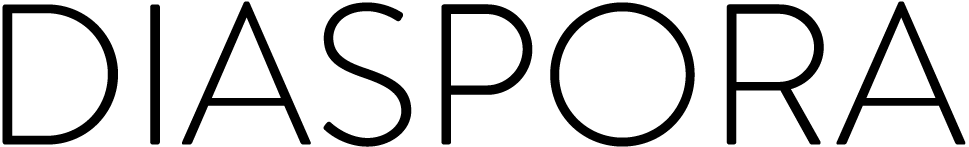
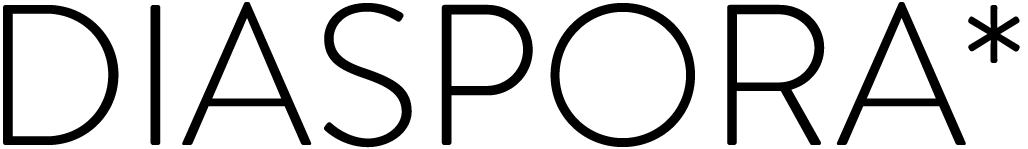
added the asterisk back, for some fun times.

Changed region(s): [[0.0, 0.0, 1.0, 1.0]]

diff --git a/_site/2010/04/30/a-response-to-mr-villa.html b/_site/2010/04/30/a-response-to-mr-villa.html
@@ -9,11 +9,11 @@
 		<link rel="stylesheet" href="/css/core.css" type="text/css" media="screen, projection" />
 		<link href="/atom.xml" rel="alternate" type="application/rss+xml" title="diaspora feed" />
 		<meta name="google-site-verification" content="DGuBficaL_YHPIz5-RX8sSnOLA7fzNDLFyqpY7Q2gIk" />
-		<META HTTP-EQUIV="EXPIRES" CONTENT="Mon May 31 19:33:29 -0400 2010">
+		<META HTTP-EQUIV="EXPIRES" CONTENT="Mon May 31 21:02:06 -0400 2010">
 	</head>
 	<body>
 		<div id="header" class="main_nav">
-			<h1 class="title"><a href ="/">DIASPORA</a></h1>
+			<h1 class="title"><a href ="/">DIASPORA*</a></h1>
 		</div>
 		<div id="floating_nav">
 			<!-- the span is a mobile hack for some devices' lack of ul
@@ -107,7 +107,7 @@ and we are huge fans of the <a href="http://lorea.cc">lorea.cc</a> website&#8230
 
 
 			<div id="footer_left">
-				<span xmlns:dc="http://purl.org/dc/elements/1.1/" href="http://purl.org/dc/dcmitype/InteractiveResource" property="dc:title" rel="dc:type"><span class="brand">DIASPORA</span>Daniel Grippi | Maxwell Salzberg | Raphael Sofaer | Ilya Zhitromirskiy</span><br/><br/><a rel="license" href="http://creativecommons.org/licenses/by-sa/3.0/us/"><img alt="Creative Commons License" style="border-width:0" src="http://i.creativecommons.org/l/by-sa/3.0/us/80x15.png" /></a>
+				<span xmlns:dc="http://purl.org/dc/elements/1.1/" href="http://purl.org/dc/dcmitype/InteractiveResource" property="dc:title" rel="dc:type"><span class="brand">DIASPORA*</span>Daniel Grippi | Maxwell Salzberg | Raphael Sofaer | Ilya Zhitromirskiy</span><br/><br/><a rel="license" href="http://creativecommons.org/licenses/by-sa/3.0/us/"><img alt="Creative Commons License" style="border-width:0" src="http://i.creativecommons.org/l/by-sa/3.0/us/80x15.png" /></a>
 			</div>
 			
 			<div id="footer_right">

diff --git a/_site/2010/04/24/10-kickstarter-is-up.html b/_site/2010/04/24/10-kickstarter-is-up.html
@@ -9,11 +9,11 @@
 		<link rel="stylesheet" href="/css/core.css" type="text/css" media="screen, projection" />
 		<link href="/atom.xml" rel="alternate" type="application/rss+xml" title="diaspora feed" />
 		<meta name="google-site-verification" content="DGuBficaL_YHPIz5-RX8sSnOLA7fzNDLFyqpY7Q2gIk" />
-		<META HTTP-EQUIV="EXPIRES" CONTENT="Mon May 31 19:33:28 -0400 2010">
+		<META HTTP-EQUIV="EXPIRES" CONTENT="Mon May 31 21:02:06 -0400 2010">
 	</head>
 	<body>
 		<div id="header" class="main_nav">
-			<h1 class="title"><a href ="/">DIASPORA</a></h1>
+			<h1 class="title"><a href ="/">DIASPORA*</a></h1>
 		</div>
 		<div id="floating_nav">
 			<!-- the span is a mobile hack for some devices' lack of ul
@@ -63,7 +63,7 @@ p(meta). 24 <span class="caps">APRIL</span> 2010 by maxwell</h2>
 
 
 			<div id="footer_left">
-				<span xmlns:dc="http://purl.org/dc/elements/1.1/" href="http://purl.org/dc/dcmitype/InteractiveResource" property="dc:title" rel="dc:type"><span class="brand">DIASPORA</span>Daniel Grippi | Maxwell Salzberg | Raphael Sofaer | Ilya Zhitromirskiy</span><br/><br/><a rel="license" href="http://creativecommons.org/licenses/by-sa/3.0/us/"><img alt="Creative Commons License" style="border-width:0" src="http://i.creativecommons.org/l/by-sa/3.0/us/80x15.png" /></a>
+				<span xmlns:dc="http://purl.org/dc/elements/1.1/" href="http://purl.org/dc/dcmitype/InteractiveResource" property="dc:title" rel="dc:type"><span class="brand">DIASPORA*</span>Daniel Grippi | Maxwell Salzberg | Raphael Sofaer | Ilya Zhitromirskiy</span><br/><br/><a rel="license" href="http://creativecommons.org/licenses/by-sa/3.0/us/"><img alt="Creative Commons License" style="border-width:0" src="http://i.creativecommons.org/l/by-sa/3.0/us/80x15.png" /></a>
 			</div>
 			
 			<div id="footer_right">

diff --git a/_site/2010/04/17/links-for-the-day.html b/_site/2010/04/17/links-for-the-day.html
@@ -9,11 +9,11 @@
 		<link rel="stylesheet" href="/css/core.css" type="text/css" media="screen, projection" />
 		<link href="/atom.xml" rel="alternate" type="application/rss+xml" title="diaspora feed" />
 		<meta name="google-site-verification" content="DGuBficaL_YHPIz5-RX8sSnOLA7fzNDLFyqpY7Q2gIk" />
-		<META HTTP-EQUIV="EXPIRES" CONTENT="Mon May 31 19:33:28 -0400 2010">
+		<META HTTP-EQUIV="EXPIRES" CONTENT="Mon May 31 21:02:06 -0400 2010">
 	</head>
 	<body>
 		<div id="header" class="main_nav">
-			<h1 class="title"><a href ="/">DIASPORA</a></h1>
+			<h1 class="title"><a href ="/">DIASPORA*</a></h1>
 		</div>
 		<div id="floating_nav">
 			<!-- the span is a mobile hack for some devices' lack of ul
@@ -59,7 +59,7 @@
 
 
 			<div id="footer_left">
-				<span xmlns:dc="http://purl.org/dc/elements/1.1/" href="http://purl.org/dc/dcmitype/InteractiveResource" property="dc:title" rel="dc:type"><span class="brand">DIASPORA</span>Daniel Grippi | Maxwell Salzberg | Raphael Sofaer | Ilya Zhitromirskiy</span><br/><br/><a rel="license" href="http://creativecommons.org/licenses/by-sa/3.0/us/"><img alt="Creative Commons License" style="border-width:0" src="http://i.creativecommons.org/l/by-sa/3.0/us/80x15.png" /></a>
+				<span xmlns:dc="http://purl.org/dc/elements/1.1/" href="http://purl.org/dc/dcmitype/InteractiveResource" property="dc:title" rel="dc:type"><span class="brand">DIASPORA*</span>Daniel Grippi | Maxwell Salzberg | Raphael Sofaer | Ilya Zhitromirskiy</span><br/><br/><a rel="license" href="http://creativecommons.org/licenses/by-sa/3.0/us/"><img alt="Creative Commons License" style="border-width:0" src="http://i.creativecommons.org/l/by-sa/3.0/us/80x15.png" /></a>
 			</div>
 			
 			<div id="footer_right">

diff --git a/_site/2010/04/21/a-little-more-about-the-project.html b/_site/2010/04/21/a-little-more-about-the-project.html
@@ -9,11 +9,11 @@
 		<link rel="stylesheet" href="/css/core.css" type="text/css" media="screen, projection" />
 		<link href="/atom.xml" rel="alternate" type="application/rss+xml" title="diaspora feed" />
 		<meta name="google-site-verification" content="DGuBficaL_YHPIz5-RX8sSnOLA7fzNDLFyqpY7Q2gIk" />
-		<META HTTP-EQUIV="EXPIRES" CONTENT="Mon May 31 19:33:28 -0400 2010">
+		<META HTTP-EQUIV="EXPIRES" CONTENT="Mon May 31 21:02:06 -0400 2010">
 	</head>
 	<body>
 		<div id="header" class="main_nav">
-			<h1 class="title"><a href ="/">DIASPORA</a></h1>
+			<h1 class="title"><a href ="/">DIASPORA*</a></h1>
 		</div>
 		<div id="floating_nav">
 			<!-- the span is a mobile hack for some devices' lack of ul
@@ -64,7 +64,7 @@
 
 
 			<div id="footer_left">
-				<span xmlns:dc="http://purl.org/dc/elements/1.1/" href="http://purl.org/dc/dcmitype/InteractiveResource" property="dc:title" rel="dc:type"><span class="brand">DIASPORA</span>Daniel Grippi | Maxwell Salzberg | Raphael Sofaer | Ilya Zhitromirskiy</span><br/><br/><a rel="license" href="http://creativecommons.org/licenses/by-sa/3.0/us/"><img alt="Creative Commons License" style="border-width:0" src="http://i.creativecommons.org/l/by-sa/3.0/us/80x15.png" /></a>
+				<span xmlns:dc="http://purl.org/dc/elements/1.1/" href="http://purl.org/dc/dcmitype/InteractiveResource" property="dc:title" rel="dc:type"><span class="brand">DIASPORA*</span>Daniel Grippi | Maxwell Salzberg | Raphael Sofaer | Ilya Zhitromirskiy</span><br/><br/><a rel="license" href="http://creativecommons.org/licenses/by-sa/3.0/us/"><img alt="Creative Commons License" style="border-width:0" src="http://i.creativecommons.org/l/by-sa/3.0/us/80x15.png" /></a>
 			</div>
 			
 			<div id="footer_right">

diff --git a/_site/2010/04/24/awesome-flyers-are-here.html b/_site/2010/04/24/awesome-flyers-are-here.html
@@ -9,11 +9,11 @@
 		<link rel="stylesheet" href="/css/core.css" type="text/css" media="screen, projection" />
 		<link href="/atom.xml" rel="alternate" type="application/rss+xml" title="diaspora feed" />
 		<meta name="google-site-verification" content="DGuBficaL_YHPIz5-RX8sSnOLA7fzNDLFyqpY7Q2gIk" />
-		<META HTTP-EQUIV="EXPIRES" CONTENT="Mon May 31 19:33:28 -0400 2010">
+		<META HTTP-EQUIV="EXPIRES" CONTENT="Mon May 31 21:02:06 -0400 2010">
 	</head>
 	<body>
 		<div id="header" class="main_nav">
-			<h1 class="title"><a href ="/">DIASPORA</a></h1>
+			<h1 class="title"><a href ="/">DIASPORA*</a></h1>
 		</div>
 		<div id="floating_nav">
 			<!-- the span is a mobile hack for some devices' lack of ul
@@ -62,7 +62,7 @@
 
 
 			<div id="footer_left">
-				<span xmlns:dc="http://purl.org/dc/elements/1.1/" href="http://purl.org/dc/dcmitype/InteractiveResource" property="dc:title" rel="dc:type"><span class="brand">DIASPORA</span>Daniel Grippi | Maxwell Salzberg | Raphael Sofaer | Ilya Zhitromirskiy</span><br/><br/><a rel="license" href="http://creativecommons.org/licenses/by-sa/3.0/us/"><img alt="Creative Commons License" style="border-width:0" src="http://i.creativecommons.org/l/by-sa/3.0/us/80x15.png" /></a>
+				<span xmlns:dc="http://purl.org/dc/elements/1.1/" href="http://purl.org/dc/dcmitype/InteractiveResource" property="dc:title" rel="dc:type"><span class="brand">DIASPORA*</span>Daniel Grippi | Maxwell Salzberg | Raphael Sofaer | Ilya Zhitromirskiy</span><br/><br/><a rel="license" href="http://creativecommons.org/licenses/by-sa/3.0/us/"><img alt="Creative Commons License" style="border-width:0" src="http://i.creativecommons.org/l/by-sa/3.0/us/80x15.png" /></a>
 			</div>
 			
 			<div id="footer_right">

diff --git a/_site/2010/04/27/kickstarter-pitch.html b/_site/2010/04/27/kickstarter-pitch.html
@@ -9,11 +9,11 @@
 		<link rel="stylesheet" href="/css/core.css" type="text/css" media="screen, projection" />
 		<link href="/atom.xml" rel="alternate" type="application/rss+xml" title="diaspora feed" />
 		<meta name="google-site-verification" content="DGuBficaL_YHPIz5-RX8sSnOLA7fzNDLFyqpY7Q2gIk" />
-		<META HTTP-EQUIV="EXPIRES" CONTENT="Mon May 31 19:33:28 -0400 2010">
+		<META HTTP-EQUIV="EXPIRES" CONTENT="Mon May 31 21:02:06 -0400 2010">
 	</head>
 	<body>
 		<div id="header" class="main_nav">
-			<h1 class="title"><a href ="/">DIASPORA</a></h1>
+			<h1 class="title"><a href ="/">DIASPORA*</a></h1>
 		</div>
 		<div id="floating_nav">
 			<!-- the span is a mobile hack for some devices' lack of ul
@@ -82,7 +82,7 @@
 
 
 			<div id="footer_left">
-				<span xmlns:dc="http://purl.org/dc/elements/1.1/" href="http://purl.org/dc/dcmitype/InteractiveResource" property="dc:title" rel="dc:type"><span class="brand">DIASPORA</span>Daniel Grippi | Maxwell Salzberg | Raphael Sofaer | Ilya Zhitromirskiy</span><br/><br/><a rel="license" href="http://creativecommons.org/licenses/by-sa/3.0/us/"><img alt="Creative Commons License" style="border-width:0" src="http://i.creativecommons.org/l/by-sa/3.0/us/80x15.png" /></a>
+				<span xmlns:dc="http://purl.org/dc/elements/1.1/" href="http://purl.org/dc/dcmitype/InteractiveResource" property="dc:title" rel="dc:type"><span class="brand">DIASPORA*</span>Daniel Grippi | Maxwell Salzberg | Raphael Sofaer | Ilya Zhitromirskiy</span><br/><br/><a rel="license" href="http://creativecommons.org/licenses/by-sa/3.0/us/"><img alt="Creative Commons License" style="border-width:0" src="http://i.creativecommons.org/l/by-sa/3.0/us/80x15.png" /></a>
 			</div>
 			
 			<div id="footer_right">

diff --git a/_site/2010/04/30/we-made-it-half-way.html b/_site/2010/04/30/we-made-it-half-way.html
@@ -9,11 +9,11 @@
 		<link rel="stylesheet" href="/css/core.css" type="text/css" media="screen, projection" />
 		<link href="/atom.xml" rel="alternate" type="application/rss+xml" title="diaspora feed" />
 		<meta name="google-site-verification" content="DGuBficaL_YHPIz5-RX8sSnOLA7fzNDLFyqpY7Q2gIk" />
-		<META HTTP-EQUIV="EXPIRES" CONTENT="Mon May 31 19:33:29 -0400 2010">
+		<META HTTP-EQUIV="EXPIRES" CONTENT="Mon May 31 21:02:06 -0400 2010">
 	</head>
 	<body>
 		<div id="header" class="main_nav">
-			<h1 class="title"><a href ="/">DIASPORA</a></h1>
+			<h1 class="title"><a href ="/">DIASPORA*</a></h1>
 		</div>
 		<div id="floating_nav">
 			<!-- the span is a mobile hack for some devices' lack of ul
@@ -66,7 +66,7 @@
 
 
 			<div id="footer_left">
-				<span xmlns:dc="http://purl.org/dc/elements/1.1/" href="http://purl.org/dc/dcmitype/InteractiveResource" property="dc:title" rel="dc:type"><span class="brand">DIASPORA</span>Daniel Grippi | Maxwell Salzberg | Raphael Sofaer | Ilya Zhitromirskiy</span><br/><br/><a rel="license" href="http://creativecommons.org/licenses/by-sa/3.0/us/"><img alt="Creative Commons License" style="border-width:0" src="http://i.creativecommons.org/l/by-sa/3.0/us/80x15.png" /></a>
+				<span xmlns:dc="http://purl.org/dc/elements/1.1/" href="http://purl.org/dc/dcmitype/InteractiveResource" property="dc:title" rel="dc:type"><span class="brand">DIASPORA*</span>Daniel Grippi | Maxwell Salzberg | Raphael Sofaer | Ilya Zhitromirskiy</span><br/><br/><a rel="license" href="http://creativecommons.org/licenses/by-sa/3.0/us/"><img alt="Creative Commons License" style="border-width:0" src="http://i.creativecommons.org/l/by-sa/3.0/us/80x15.png" /></a>
 			</div>
 			
 			<div id="footer_right">

diff --git a/_site/2010/05/08/we-did-it.html b/_site/2010/05/08/we-did-it.html
@@ -9,11 +9,11 @@
 		<link rel="stylesheet" href="/css/core.css" type="text/css" media="screen, projection" />
 		<link href="/atom.xml" rel="alternate" type="application/rss+xml" title="diaspora feed" />
 		<meta name="google-site-verification" content="DGuBficaL_YHPIz5-RX8sSnOLA7fzNDLFyqpY7Q2gIk" />
-		<META HTTP-EQUIV="EXPIRES" CONTENT="Mon May 31 19:33:29 -0400 2010">
+		<META HTTP-EQUIV="EXPIRES" CONTENT="Mon May 31 21:02:06 -0400 2010">
 	</head>
 	<body>
 		<div id="header" class="main_nav">
-			<h1 class="title"><a href ="/">DIASPORA</a></h1>
+			<h1 class="title"><a href ="/">DIASPORA*</a></h1>
 		</div>
 		<div id="floating_nav">
 			<!-- the span is a mobile hack for some devices' lack of ul
@@ -69,7 +69,7 @@
 
 
 			<div id="footer_left">
-				<span xmlns:dc="http://purl.org/dc/elements/1.1/" href="http://purl.org/dc/dcmitype/InteractiveResource" property="dc:title" rel="dc:type"><span class="brand">DIASPORA</span>Daniel Grippi | Maxwell Salzberg | Raphael Sofaer | Ilya Zhitromirskiy</span><br/><br/><a rel="license" href="http://creativecommons.org/licenses/by-sa/3.0/us/"><img alt="Creative Commons License" style="border-width:0" src="http://i.creativecommons.org/l/by-sa/3.0/us/80x15.png" /></a>
+				<span xmlns:dc="http://purl.org/dc/elements/1.1/" href="http://purl.org/dc/dcmitype/InteractiveResource" property="dc:title" rel="dc:type"><span class="brand">DIASPORA*</span>Daniel Grippi | Maxwell Salzberg | Raphael Sofaer | Ilya Zhitromirskiy</span><br/><br/><a rel="license" href="http://creativecommons.org/licenses/by-sa/3.0/us/"><img alt="Creative Commons License" style="border-width:0" src="http://i.creativecommons.org/l/by-sa/3.0/us/80x15.png" /></a>
 			</div>
 			
 			<div id="footer_right">

diff --git a/_site/2010/05/17/after-the-times.html b/_site/2010/05/17/after-the-times.html
@@ -9,11 +9,11 @@
 		<link rel="stylesheet" href="/css/core.css" type="text/css" media="screen, projection" />
 		<link href="/atom.xml" rel="alternate" type="application/rss+xml" title="diaspora feed" />
 		<meta name="google-site-verification" content="DGuBficaL_YHPIz5-RX8sSnOLA7fzNDLFyqpY7Q2gIk" />
-		<META HTTP-EQUIV="EXPIRES" CONTENT="Mon May 31 19:33:29 -0400 2010">
+		<META HTTP-EQUIV="EXPIRES" CONTENT="Mon May 31 21:02:06 -0400 2010">
 	</head>
 	<body>
 		<div id="header" class="main_nav">
-			<h1 class="title"><a href ="/">DIASPORA</a></h1>
+			<h1 class="title"><a href ="/">DIASPORA*</a></h1>
 		</div>
 		<div id="floating_nav">
 			<!-- the span is a mobile hack for some devices' lack of ul
@@ -67,7 +67,7 @@
 
 
 			<div id="footer_left">
-				<span xmlns:dc="http://purl.org/dc/elements/1.1/" href="http://purl.org/dc/dcmitype/InteractiveResource" property="dc:title" rel="dc:type"><span class="brand">DIASPORA</span>Daniel Grippi | Maxwell Salzberg | Raphael Sofaer | Ilya Zhitromirskiy</span><br/><br/><a rel="license" href="http://creativecommons.org/licenses/by-sa/3.0/us/"><img alt="Creative Commons License" style="border-width:0" src="http://i.creativecommons.org/l/by-sa/3.0/us/80x15.png" /></a>
+				<span xmlns:dc="http://purl.org/dc/elements/1.1/" href="http://purl.org/dc/dcmitype/InteractiveResource" property="dc:title" rel="dc:type"><span class="brand">DIASPORA*</span>Daniel Grippi | Maxwell Salzberg | Raphael Sofaer | Ilya Zhitromirskiy</span><br/><br/><a rel="license" href="http://creativecommons.org/licenses/by-sa/3.0/us/"><img alt="Creative Commons License" style="border-width:0" src="http://i.creativecommons.org/l/by-sa/3.0/us/80x15.png" /></a>
 			</div>
 			
 			<div id="footer_right">

diff --git a/_site/blog.html b/_site/blog.html
@@ -9,11 +9,11 @@
 		<link rel="stylesheet" href="/css/core.css" type="text/css" media="screen, projection" />
 		<link href="/atom.xml" rel="alternate" type="application/rss+xml" title="diaspora feed" />
 		<meta name="google-site-verification" content="DGuBficaL_YHPIz5-RX8sSnOLA7fzNDLFyqpY7Q2gIk" />
-		<META HTTP-EQUIV="EXPIRES" CONTENT="Mon May 31 19:33:29 -0400 2010">
+		<META HTTP-EQUIV="EXPIRES" CONTENT="Mon May 31 21:02:06 -0400 2010">
 	</head>
 	<body>
 		<div id="header" class="main_nav">
-			<h1 class="title"><a href ="/">DIASPORA</a></h1>
+			<h1 class="title"><a href ="/">DIASPORA*</a></h1>
 		</div>
 		<div id="floating_nav">
 			<!-- the span is a mobile hack for some devices' lack of ul
@@ -88,7 +88,7 @@
 
 
 			<div id="footer_left">
-				<span xmlns:dc="http://purl.org/dc/elements/1.1/" href="http://purl.org/dc/dcmitype/InteractiveResource" property="dc:title" rel="dc:type"><span class="brand">DIASPORA</span>Daniel Grippi | Maxwell Salzberg | Raphael Sofaer | Ilya Zhitromirskiy</span><br/><br/><a rel="license" href="http://creativecommons.org/licenses/by-sa/3.0/us/"><img alt="Creative Commons License" style="border-width:0" src="http://i.creativecommons.org/l/by-sa/3.0/us/80x15.png" /></a>
+				<span xmlns:dc="http://purl.org/dc/elements/1.1/" href="http://purl.org/dc/dcmitype/InteractiveResource" property="dc:title" rel="dc:type"><span class="brand">DIASPORA*</span>Daniel Grippi | Maxwell Salzberg | Raphael Sofaer | Ilya Zhitromirskiy</span><br/><br/><a rel="license" href="http://creativecommons.org/licenses/by-sa/3.0/us/"><img alt="Creative Commons License" style="border-width:0" src="http://i.creativecommons.org/l/by-sa/3.0/us/80x15.png" /></a>
 			</div>
 			
 			<div id="footer_right">

diff --git a/_site/faq.html b/_site/faq.html
@@ -9,11 +9,11 @@
 		<link rel="stylesheet" href="/css/core.css" type="text/css" media="screen, projection" />
 		<link href="/atom.xml" rel="alternate" type="application/rss+xml" title="diaspora feed" />
 		<meta name="google-site-verification" content="DGuBficaL_YHPIz5-RX8sSnOLA7fzNDLFyqpY7Q2gIk" />
-		<META HTTP-EQUIV="EXPIRES" CONTENT="Mon May 31 19:33:29 -0400 2010">
+		<META HTTP-EQUIV="EXPIRES" CONTENT="Mon May 31 21:02:06 -0400 2010">
 	</head>
 	<body>
 		<div id="header" class="main_nav">
-			<h1 class="title"><a href ="/">DIASPORA</a></h1>
+			<h1 class="title"><a href ="/">DIASPORA*</a></h1>
 		</div>
 		<div id="floating_nav">
 			<!-- the span is a mobile hack for some devices' lack of ul
@@ -63,7 +63,7 @@
 
 
 			<div id="footer_left">
-				<span xmlns:dc="http://purl.org/dc/elements/1.1/" href="http://purl.org/dc/dcmitype/InteractiveResource" property="dc:title" rel="dc:type"><span class="brand">DIASPORA</span>Daniel Grippi | Maxwell Salzberg | Raphael Sofaer | Ilya Zhitromirskiy</span><br/><br/><a rel="license" href="http://creativecommons.org/licenses/by-sa/3.0/us/"><img alt="Creative Commons License" style="border-width:0" src="http://i.creativecommons.org/l/by-sa/3.0/us/80x15.png" /></a>
+				<span xmlns:dc="http://purl.org/dc/elements/1.1/" href="http://purl.org/dc/dcmitype/InteractiveResource" property="dc:title" rel="dc:type"><span class="brand">DIASPORA*</span>Daniel Grippi | Maxwell Salzberg | Raphael Sofaer | Ilya Zhitromirskiy</span><br/><br/><a rel="license" href="http://creativecommons.org/licenses/by-sa/3.0/us/"><img alt="Creative Commons License" style="border-width:0" src="http://i.creativecommons.org/l/by-sa/3.0/us/80x15.png" /></a>
 			</div>
 			
 			<div id="footer_right">

diff --git a/_site/index.html b/_site/index.html
@@ -9,11 +9,11 @@
 		<link rel="stylesheet" href="/css/core.css" type="text/css" media="screen, projection" />
 		<link href="/atom.xml" rel="alternate" type="application/rss+xml" title="diaspora feed" />
 		<meta name="google-site-verification" content="DGuBficaL_YHPIz5-RX8sSnOLA7fzNDLFyqpY7Q2gIk" />
-		<META HTTP-EQUIV="EXPIRES" CONTENT="Mon May 31 19:33:29 -0400 2010">
+		<META HTTP-EQUIV="EXPIRES" CONTENT="Mon May 31 21:02:06 -0400 2010">
 	</head>
 	<body>
 		<div id="header" class="main_nav">
-			<h1 class="title"><a href ="/">DIASPORA</a></h1>
+			<h1 class="title"><a href ="/">DIASPORA*</a></h1>
 		</div>
 		<div id="floating_nav">
 			<!-- the span is a mobile hack for some devices' lack of ul
@@ -65,7 +65,7 @@
 
 
 			<div id="footer_left">
-				<span xmlns:dc="http://purl.org/dc/elements/1.1/" href="http://purl.org/dc/dcmitype/InteractiveResource" property="dc:title" rel="dc:type"><span class="brand">DIASPORA</span>Daniel Grippi | Maxwell Salzberg | Raphael Sofaer | Ilya Zhitromirskiy</span><br/><br/><a rel="license" href="http://creativecommons.org/licenses/by-sa/3.0/us/"><img alt="Creative Commons License" style="border-width:0" src="http://i.creativecommons.org/l/by-sa/3.0/us/80x15.png" /></a>
+				<span xmlns:dc="http://purl.org/dc/elements/1.1/" href="http://purl.org/dc/dcmitype/InteractiveResource" property="dc:title" rel="dc:type"><span class="brand">DIASPORA*</span>Daniel Grippi | Maxwell Salzberg | Raphael Sofaer | Ilya Zhitromirskiy</span><br/><br/><a rel="license" href="http://creativecommons.org/licenses/by-sa/3.0/us/"><img alt="Creative Commons License" style="border-width:0" src="http://i.creativecommons.org/l/by-sa/3.0/us/80x15.png" /></a>
 			</div>
 			
 			<div id="footer_right">
